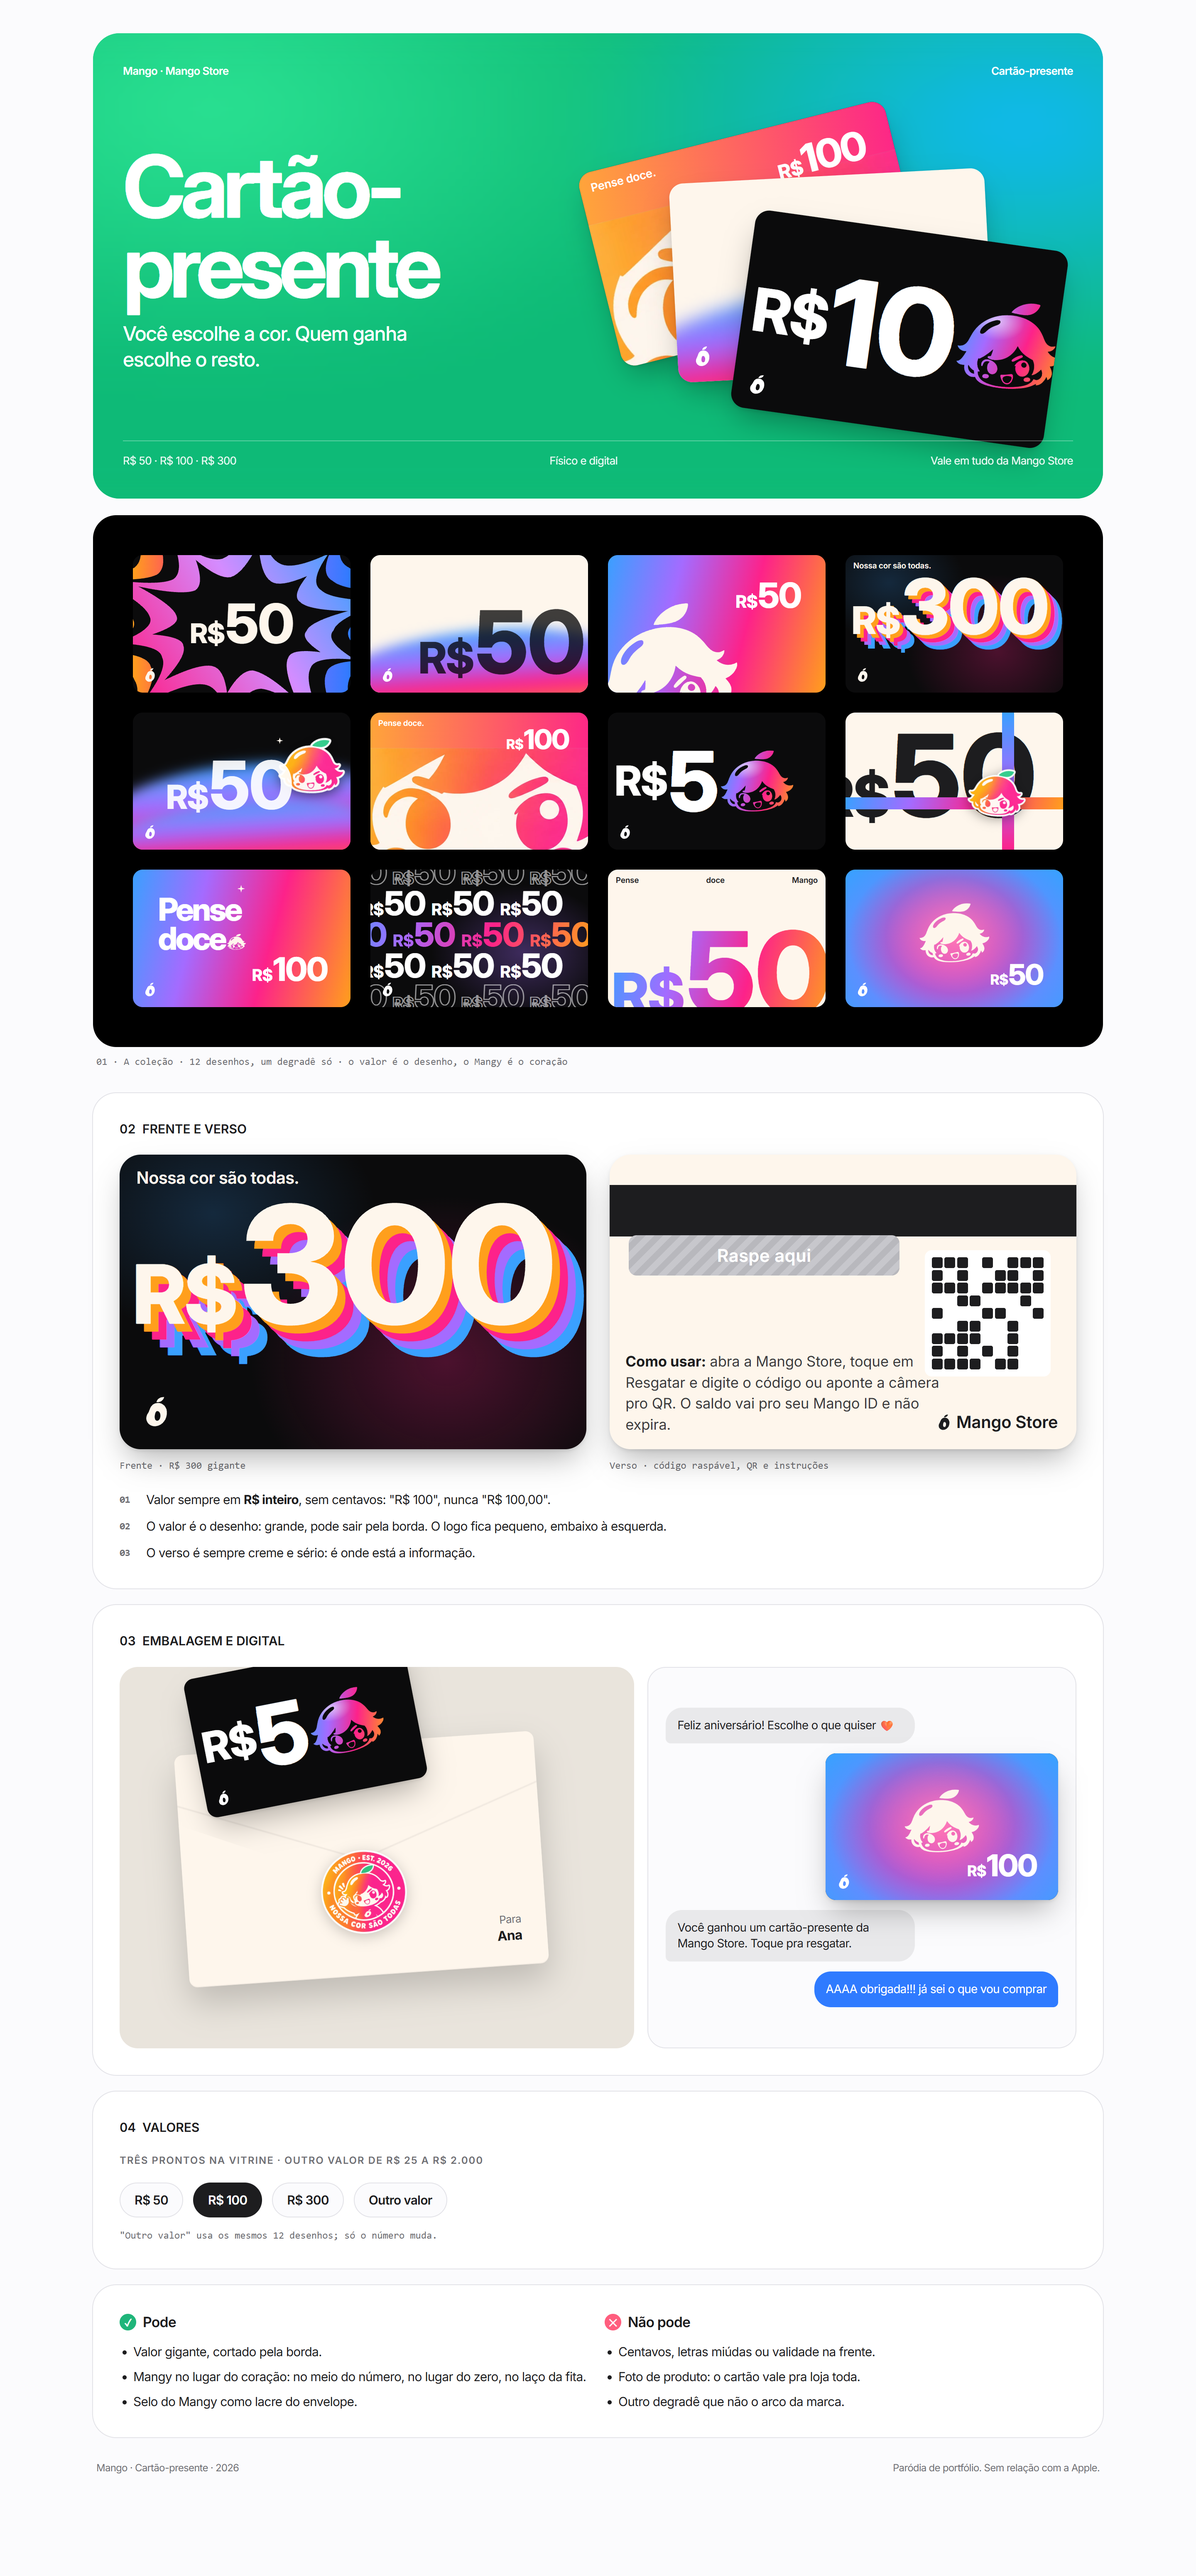
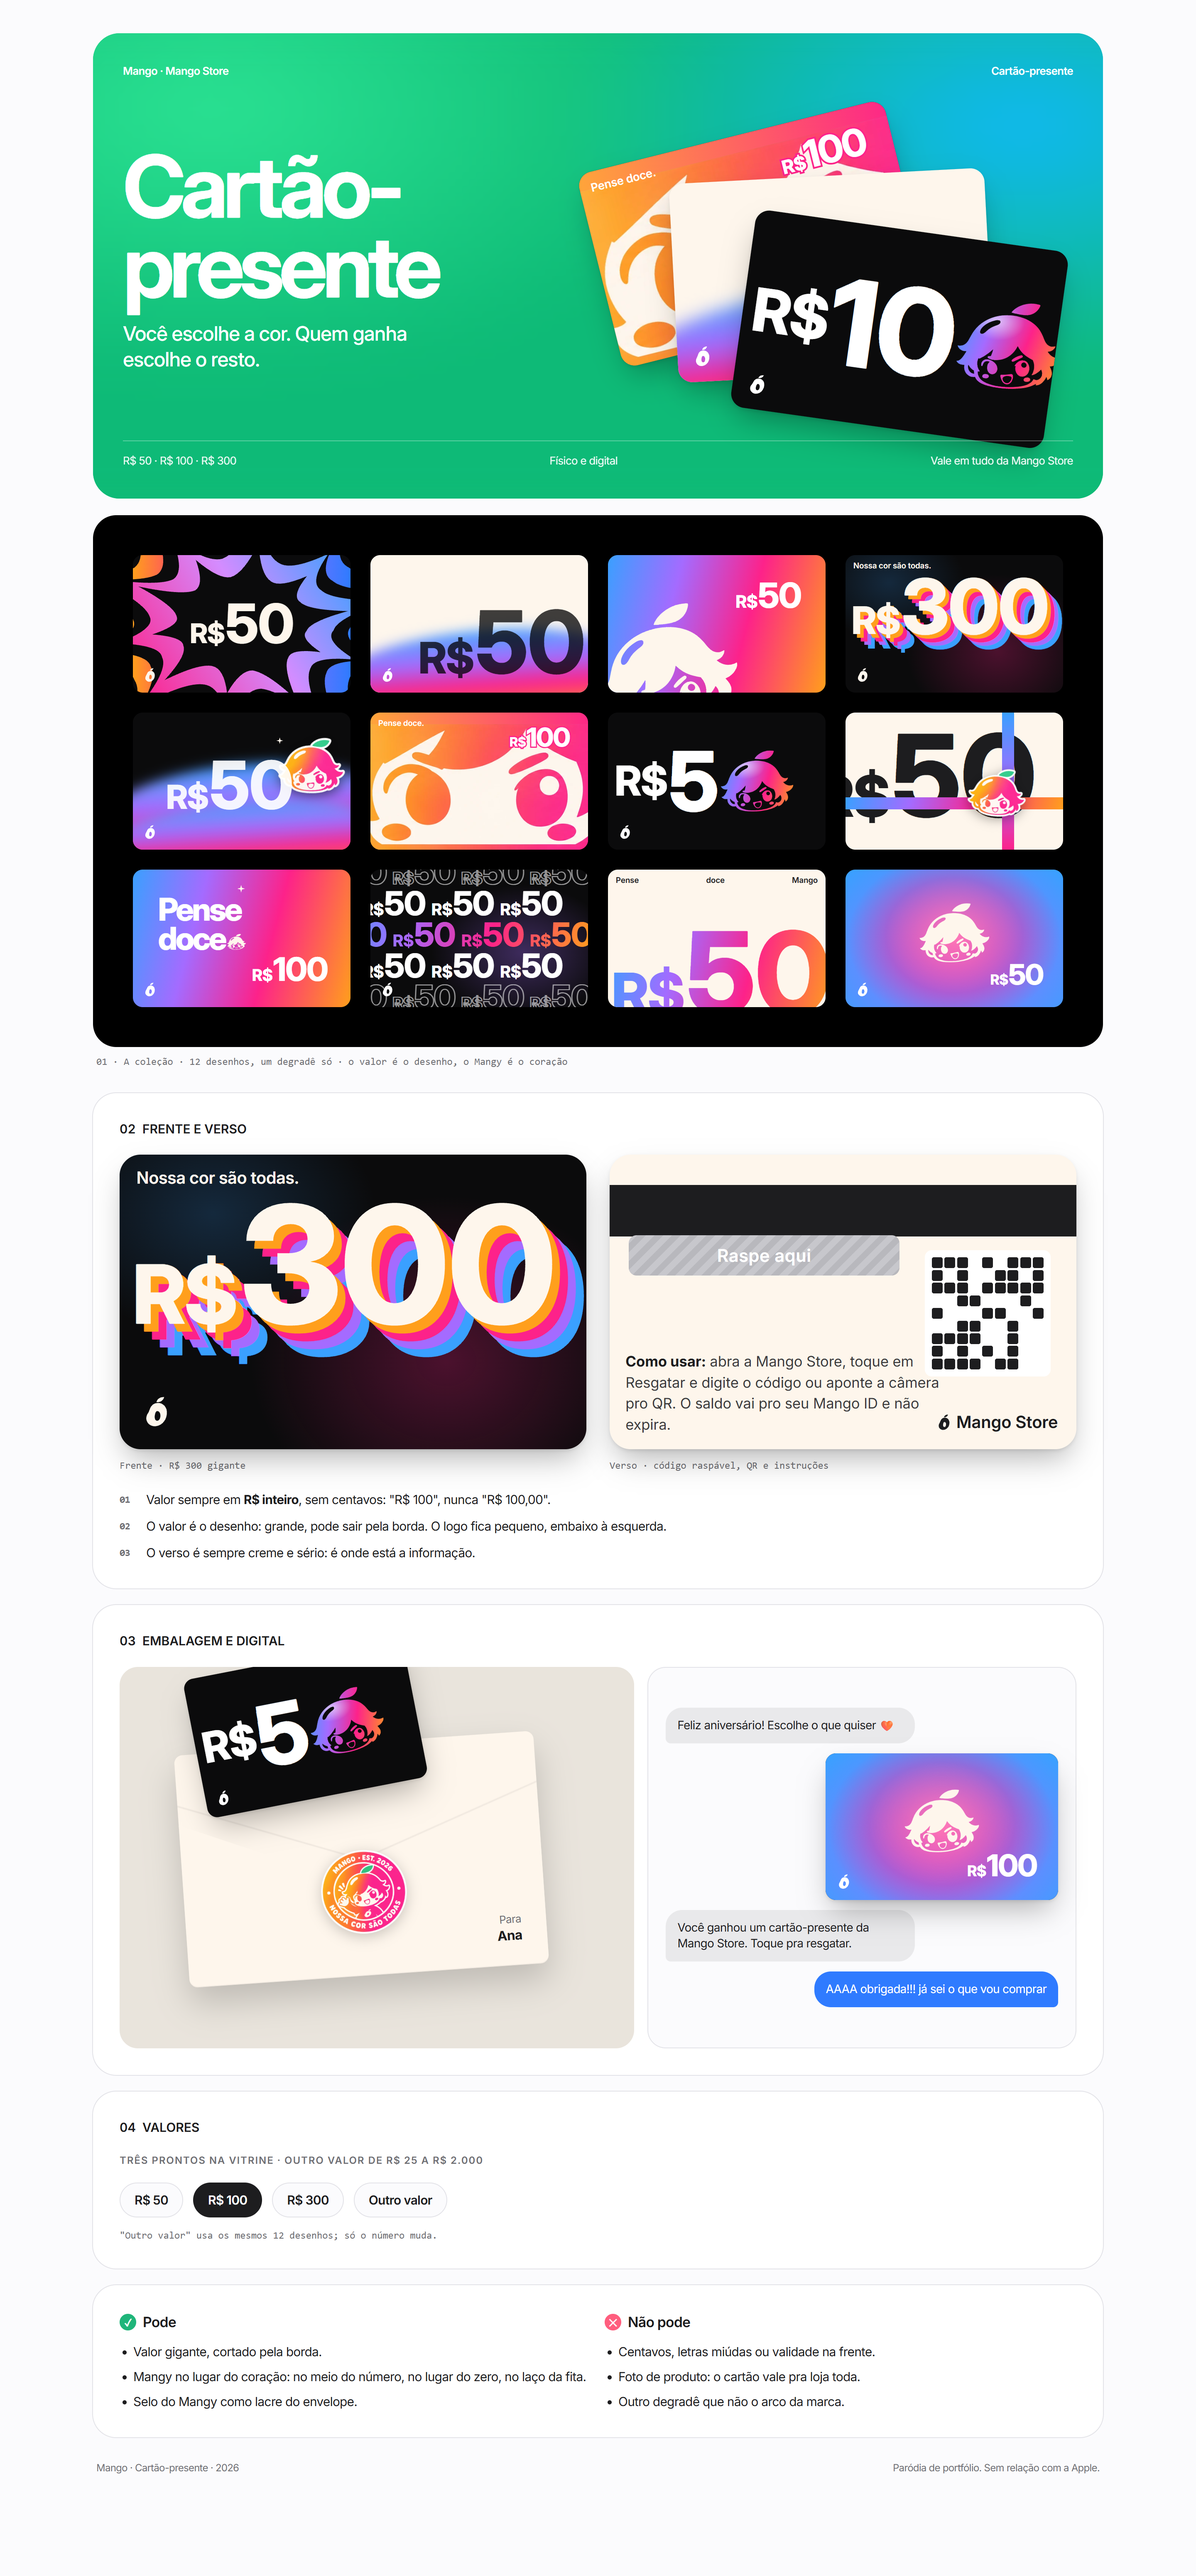
fix(marca): olhos de volta pra cima e contorno leve no valor do cartão dos olhos

Changed region(s): [[0.3125, 0.2802, 0.5, 0.3424], [0.5, 0.0623, 0.5625, 0.1556], [0.6562, 0.0311, 0.7188, 0.0934]]

diff --git a/escolhas/marca/cartoes.html b/escolhas/marca/cartoes.html
@@ -254,7 +254,7 @@ const DESENHOS = [
   // 5 número claro afundando na onda
   ['', v => `<span class="onda"></span>${stk('left:13.4em;top:2.2em;width:6.2em;transform:rotate(6deg);filter:drop-shadow(0 .3em .6em #0009)')}<span class="onda" style="top:66%;opacity:.95"></span><span class="v" style="left:.5em;top:.7em;font-size:6.1em;color:rgba(255,255,255,.92)">${RS(v)}</span><span class="brilho" style="left:13.2em;top:2.3em;width:.6em"></span><span class="marquinha"></span>`],
   // 6 só os olhos: zoom no rosto do Mangy, em creme, sobre o degradê
-  ['', v => `<span style="inset:0;background:linear-gradient(95deg,#ffa53a,#fd228a)"></span><img src="mascote/eyes-1.webp" alt="" style="left:-10%;top:3.1em;width:120%;height:auto;clip-path:inset(1.5% 0 0 0)"><span class="v" style="right:.7em;top:.6em;font-size:2.5em">${RS(v)}</span><span class="espaco" style="right:auto;color:#fff"><span>Pense doce.</span></span>`],
+  ['', v => `<span style="inset:0;background:linear-gradient(95deg,#ffa53a,#fd228a)"></span><img src="mascote/eyes-1.webp" alt="" style="left:-10%;top:.9em;width:120%;height:auto;clip-path:inset(1.5% 0 0 0)"><span class="v" style="right:.7em;top:.55em;font-size:2.4em;-webkit-text-stroke:.09em #fd228a;paint-order:stroke fill">${RS(v)}</span><span class="espaco" style="right:auto;color:#fff"><span>Pense doce.</span></span>`],
   // 7 o Mangy é o zero
   ['', v => `<span class="v" style="left:.08em;top:50%;transform:translateY(-50%);font-size:7.6em;display:flex;align-items:center">${RS(String(v).slice(0, -1))}<span class="cabeca" style="position:static;height:.74em;margin-left:.03em"></span></span><span class="marquinha"></span>`],
   // 8 presente: fita cruzada, Mangy no laço
